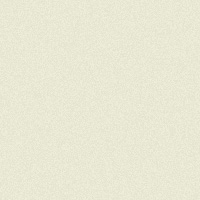
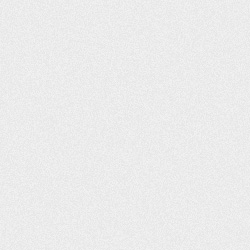
header, background si search

diff --git a/app/assets/stylesheets/application.css.css b/app/assets/stylesheets/application.css.css
@@ -1,20 +1,20 @@
 @import url(http://fonts.googleapis.com/css?family=Open+Sans:300italic,400,300,700,800);
-
+/*
+ * This is a manifest file that'll be compiled into application.css, which will include all the files
+ * listed below.
+ *
+ * Any CSS and SCSS file within this directory, lib/assets/stylesheets, vendor/assets/stylesheets,
+ * or vendor/assets/stylesheets of plugins, if any, can be referenced here using a relative path.
+ *
+ * You're free to add application-wide styles to this file and they'll appear at the top of the
+ * compiled file, but it's generally better to create a new file per style scope.
+ *
+ *= require_self
+ *= require_tree .
+ */
 /* Sizes */
-$wideBlock: 1000px;
-
 /* Text */
-$smallNote: 10px;
-$forUpper: 11px;
-$textSize: 14px;
-$subHeadline: 24px;
-$headlineSize: 60px;
-
 /* Colors */
-$link: #f4f4e6;
-$linkOnBlackHover: white;
-$backGreen: #96ae22;
-
 html, body, div, span, applet, object, iframe,
 h1, h2, h3, h4, h5, h6, p, blockquote, pre,
 a, abbr, acronym, address, big, cite, code,
@@ -28,34 +28,33 @@ article, aside, canvas, details, embed,
 figure, figcaption, footer, header, hgroup,
 menu, nav, output, ruby, section, summary,
 time, mark, audio, video {
-    margin: 0;
-    padding: 0;
-    border: 0;
-    font-size: 100%;
-    vertical-align: baseline;
-}
+  margin: 0;
+  padding: 0;
+  border: 0;
+  font-size: 100%;
+  vertical-align: baseline; }
+
 /* HTML5 display-role reset for older browsers */
 article, aside, details, figcaption, figure,
 footer, header, hgroup, menu, nav, section {
-    display: block;
-}
+  display: block; }
+
 body {
   font-family: Open Sans, sans-serif;
   line-height: 1.4;
-  font-size: $textSize;
-}
+  font-size: 14px; }
+
 ol, ul {
-    list-style: none;
-}
+  list-style: none; }
+
 blockquote, q {
-    quotes: none;
-}
+  quotes: none; }
+
 blockquote:before, blockquote:after,
 q:before, q:after {
-    content: '';
-    content: none;
-}
+  content: '';
+  content: none; }
+
 table {
-    border-collapse: collapse;
-    border-spacing: 0;
-}
+  border-collapse: collapse;
+  border-spacing: 0; }

diff --git a/app/assets/stylesheets/default.css.css b/app/assets/stylesheets/default.css.css
@@ -29,7 +29,7 @@ footer, header, hgroup, menu, nav, section {
 body {
   font-family: Open Sans, sans-serif;
   line-height: 1.4;
-  font-size: 13px; }
+  font-size: 14px; }
 
 ol, ul {
   list-style: none; }
@@ -97,7 +97,10 @@ header {
       margin-left: 10px; }
 
 .homepageEngine {
-  background: url(/assets/hallstat.jpg) 50% 0 repeat fixed; }
+  background: url(/assets/hallstat.jpg) 50% 0 repeat fixed;
+  -webkit-box-shadow: 3px 4px 5px rgba(0, 0, 0, 0.16);
+  -moz-box-shadow: 3px 4px 5px rgba(0, 0, 0, 0.16);
+  box-shadow: 3px 4px 5px rgba(0, 0, 0, 0.16); }
   .homepageEngine .adPic {
     background: url(/assets/greygov.png) 0 0 repeat-x;
     height: 100%; }
@@ -216,3 +219,30 @@ label.styled {
   label.styled input {
     left: -9999px;
     position: absolute; }
+
+.hpFooterBlock {
+  text-align: center;
+  padding: 40px 0; }
+  .hpFooterBlock h1, .hpFooterBlock h3 {
+    font-size: 40px;
+    color: #000;
+    font-weight: 300;
+    letter-spacing: -1px; }
+  .hpFooterBlock h2, .hpFooterBlock h4 {
+    font-size: 20px;
+    font-weight: 300; }
+  .hpFooterBlock p {
+    padding: 20px 0 0;
+    font-size: 14px;
+    color: #333;
+    line-height: 1.7; }
+
+/* Add usggestions */
+.addSugg h4 {
+  padding-bottom: 30px; }
+.addSugg a {
+  background: white;
+  display: inline-block;
+  padding: 8px 15px;
+  margin: 5px;
+  color: #666; }

diff --git a/app/assets/stylesheets/default.css.scss b/app/assets/stylesheets/default.css.scss
@@ -71,6 +71,9 @@ header {
 
 .homepageEngine {
   background: url(/assets/hallstat.jpg) 50% 0 repeat fixed;
+  -webkit-box-shadow: 3px 4px 5px rgba(0,0,0,.16);
+  -moz-box-shadow: 3px 4px 5px rgba(0,0,0,.16);
+  box-shadow: 3px 4px 5px rgba(0,0,0,.16);
 
   .adPic {
     background: url(/assets/greygov.png) 0 0 repeat-x;
@@ -238,5 +241,44 @@ label.styled {
   input {
     left: -9999px;
     position: absolute;
+  }
+}
+
+
+.hpFooterBlock {
+  text-align: center;
+  padding: 40px 0;
+
+  h1, h3 {
+    font-size: 40px;
+    color: #000;
+    font-weight:  300;
+    letter-spacing: -1px;
+  }
+  h2, h4 {
+    font-size: 20px;
+    font-weight:  300;
+  }
+  p {
+    padding: 20px 0 0;
+    font-size: $textSize;
+    color: #333;
+    line-height: 1.7;
+  }
+}
+
+/* Add usggestions */
+.addSugg {
+
+  h4 {
+    padding-bottom: 30px;
+  }
+
+  a {
+    background: white;
+    display: inline-block;
+    padding: 8px 15px;
+    margin: 5px;
+    color: #666;
   }
 }

diff --git a/app/assets/javascripts/common.js b/app/assets/javascripts/common.js
@@ -12,17 +12,12 @@ $(document).ready(function() {
     $('section[data-type="background"]').each(function(){
 
         var $window = $(window);
-
         var $bgobj = $(this); // assigning the object
 
         $(window).scroll(function() {
             var yPos = -($window.scrollTop() / $bgobj.data('speed'));
-
-            // Put together our final background position
             var coords = '50% '+ yPos + 'px';
 
-
-            // Move the background
             $bgobj.css({ backgroundPosition: coords });
         });
     });
@@ -36,7 +31,7 @@ $(document).ready(function() {
 
     $('#scrollPage').click(function() {
         var y = $(window).scrollTop();
-        $('html, body').animate({ scrollTop: y + slideHeight }, 600);
+        $('html, body').animate({ scrollTop: y + slideHeight - 90 }, 600);
 
     })
 

diff --git a/app/assets/stylesheets/application.css.scss b/app/assets/stylesheets/application.css.scss
@@ -13,3 +13,4 @@
  */
 
 @import 'constants.css.scss';
+
